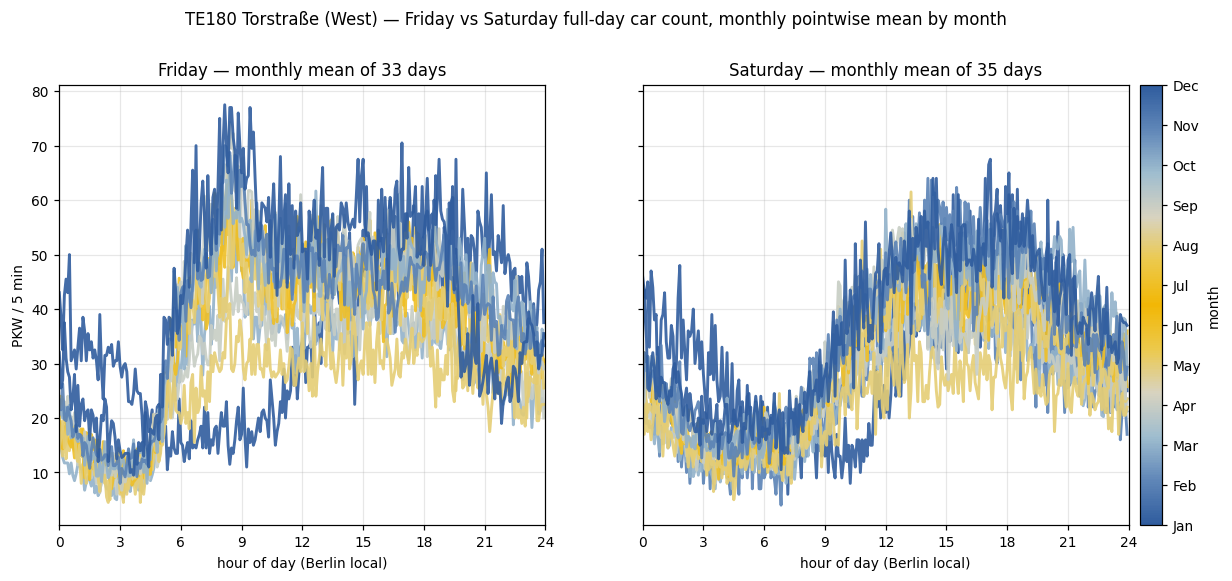
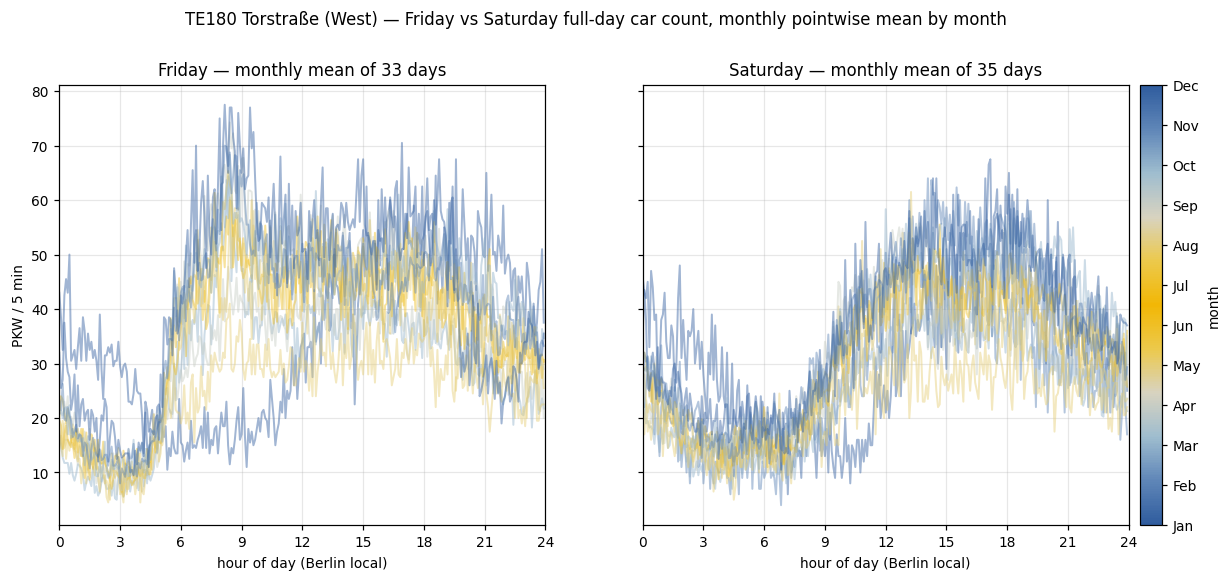
te180-deepdive: fig 16 — tune monthly-mean line transparency to alpha 0.45 / lw 1.3
Swept alpha; 0.65 muddies and 0.30 is too faint. 0.45 with a thinner line keeps the
twelve monthly-mean curves individually followable while the seasonal layering stays
legible.

Changed region(s): [[0.0308, 0.1859, 0.4627, 0.8675], [0.5244, 0.2788, 0.9253, 0.8675]]

diff --git a/berlin-traffic-groundwork/te180-deepdive/analyze.py b/berlin-traffic-groundwork/te180-deepdive/analyze.py
@@ -418,7 +418,7 @@ def fig_weekend_day_monthly_mean(df):
             if not sel.any():
                 continue
             ndays += int(sel.sum())
-            a.plot(tod, M[sel].mean(axis=0), color=cmap(mnorm(m)), lw=1.9, alpha=0.9, zorder=2)
+            a.plot(tod, M[sel].mean(axis=0), color=cmap(mnorm(m)), lw=1.3, alpha=0.45, zorder=2)
         a.set_title(f"{name} — monthly mean of {ndays} days"); a.set_xlim(0, 24)
         a.set_xticks(range(0, 25, 3)); a.set_xlabel("hour of day (Berlin local)")
     ax[0].set_ylabel("PKW / 5 min")
